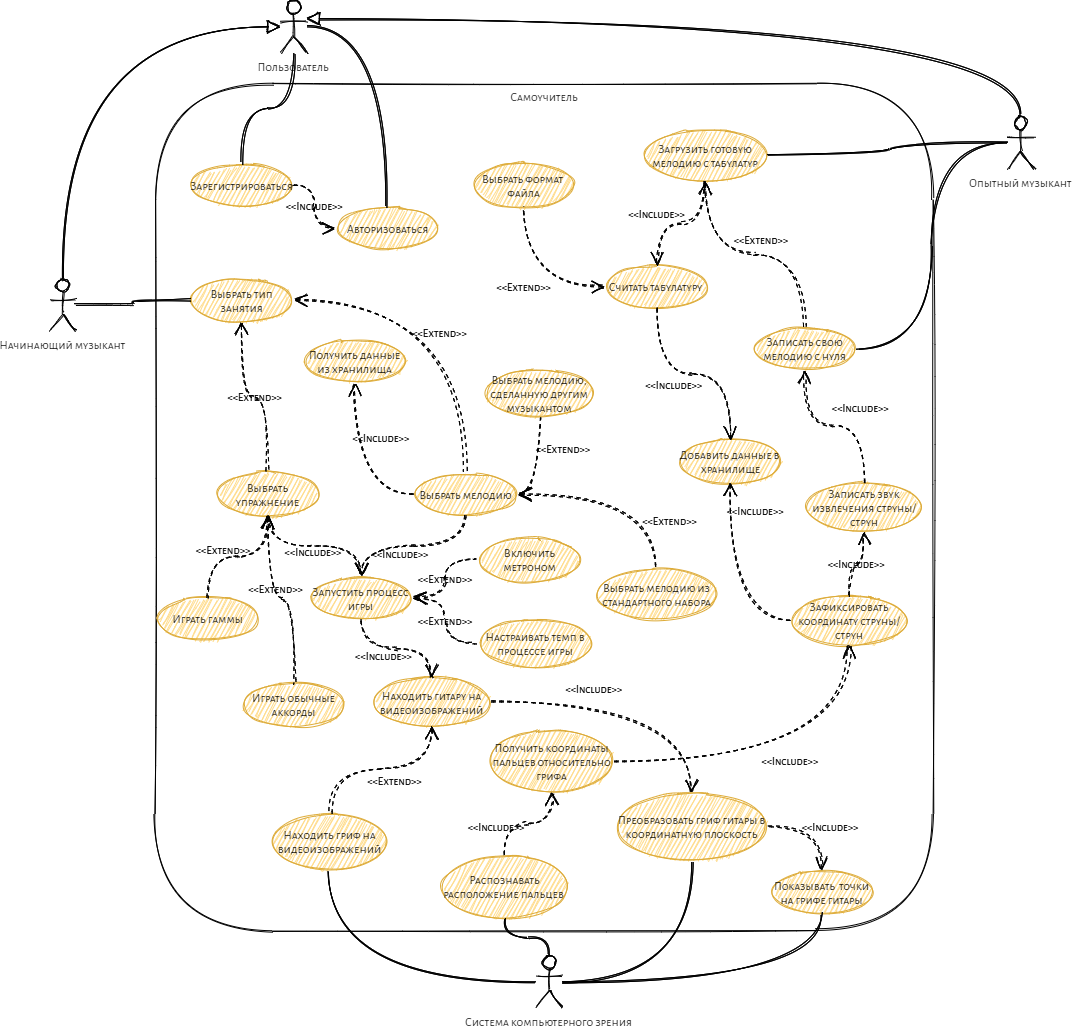
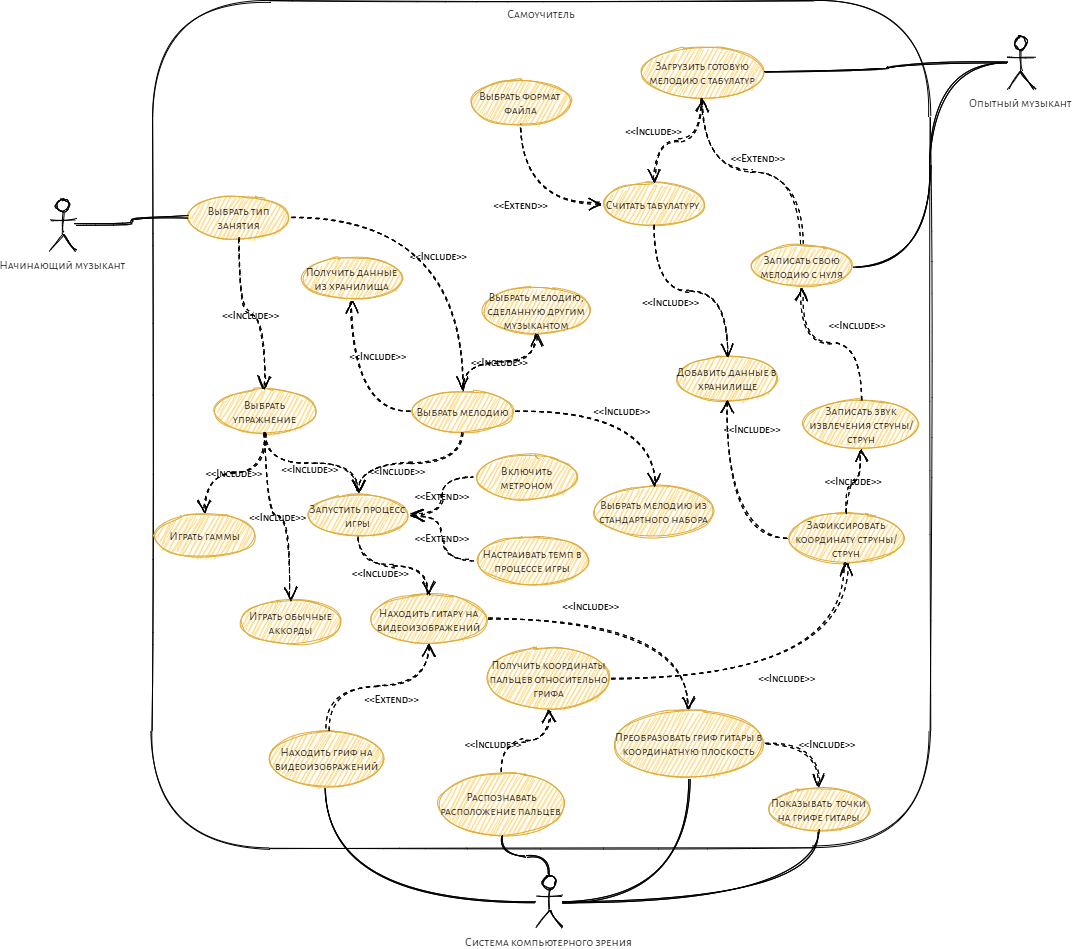
refactored use-cases and domain model

diff --git a/README.md b/README.md
@@ -9,3 +9,4 @@
 
 * [Видение](documents/VISION.md)
 * [Use-cases](documents/USECASES.md)
+* [Модель предметной области](documents/MODEL.md)

diff --git a/documents/MODEL.md b/documents/MODEL.md
@@ -1,0 +1,3 @@
+# Модель предметной области
+
+![Use-case](../images/model.png)
